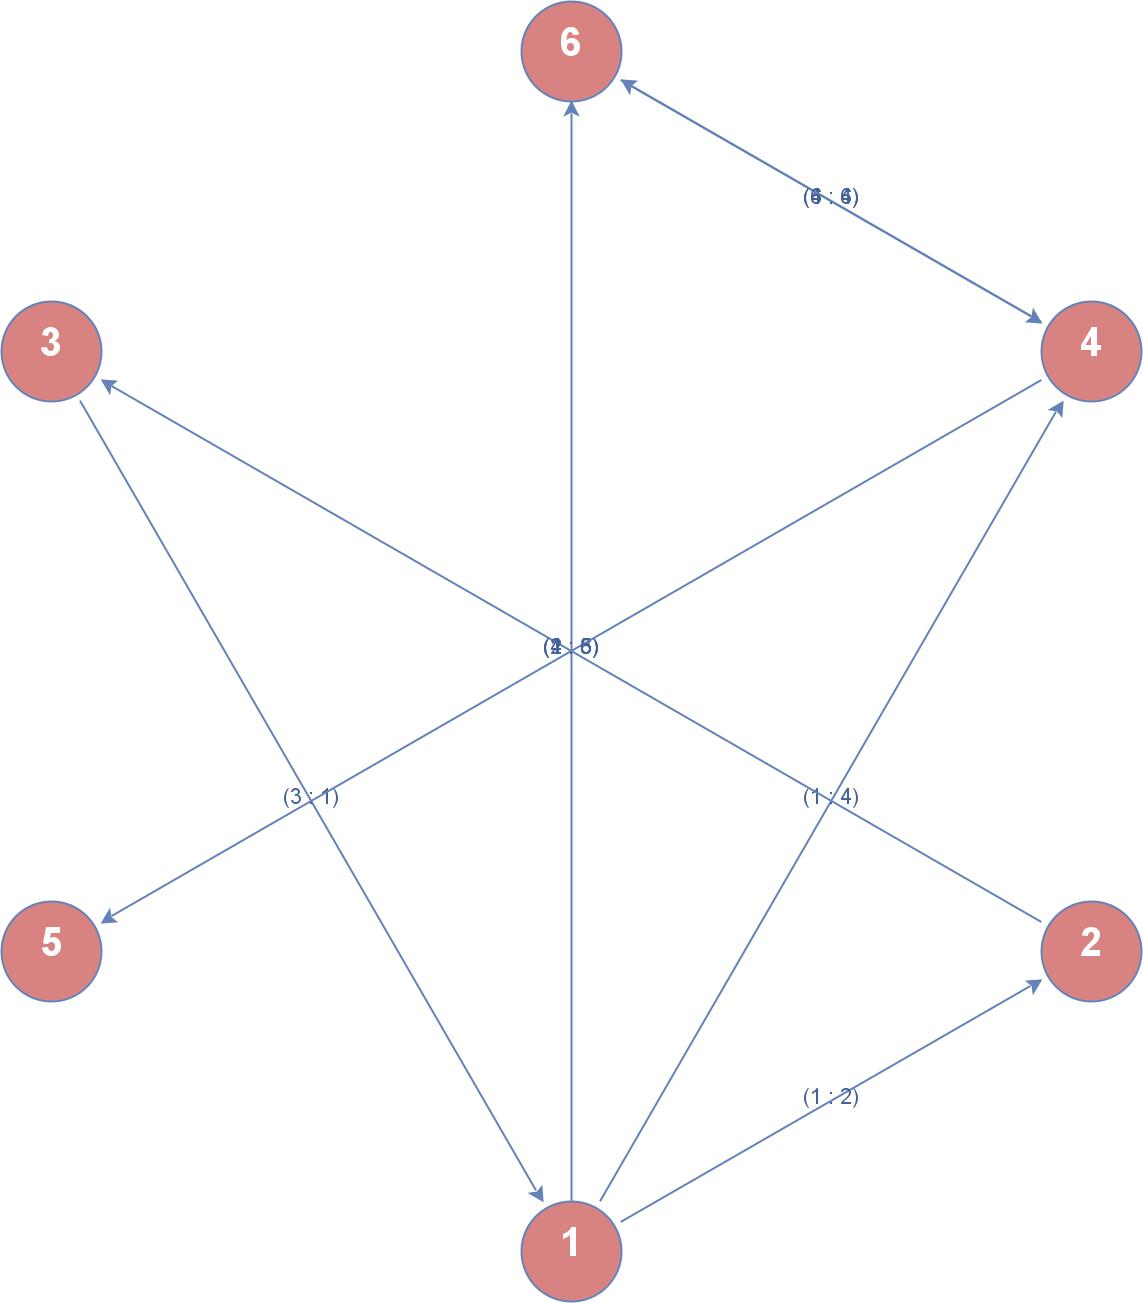
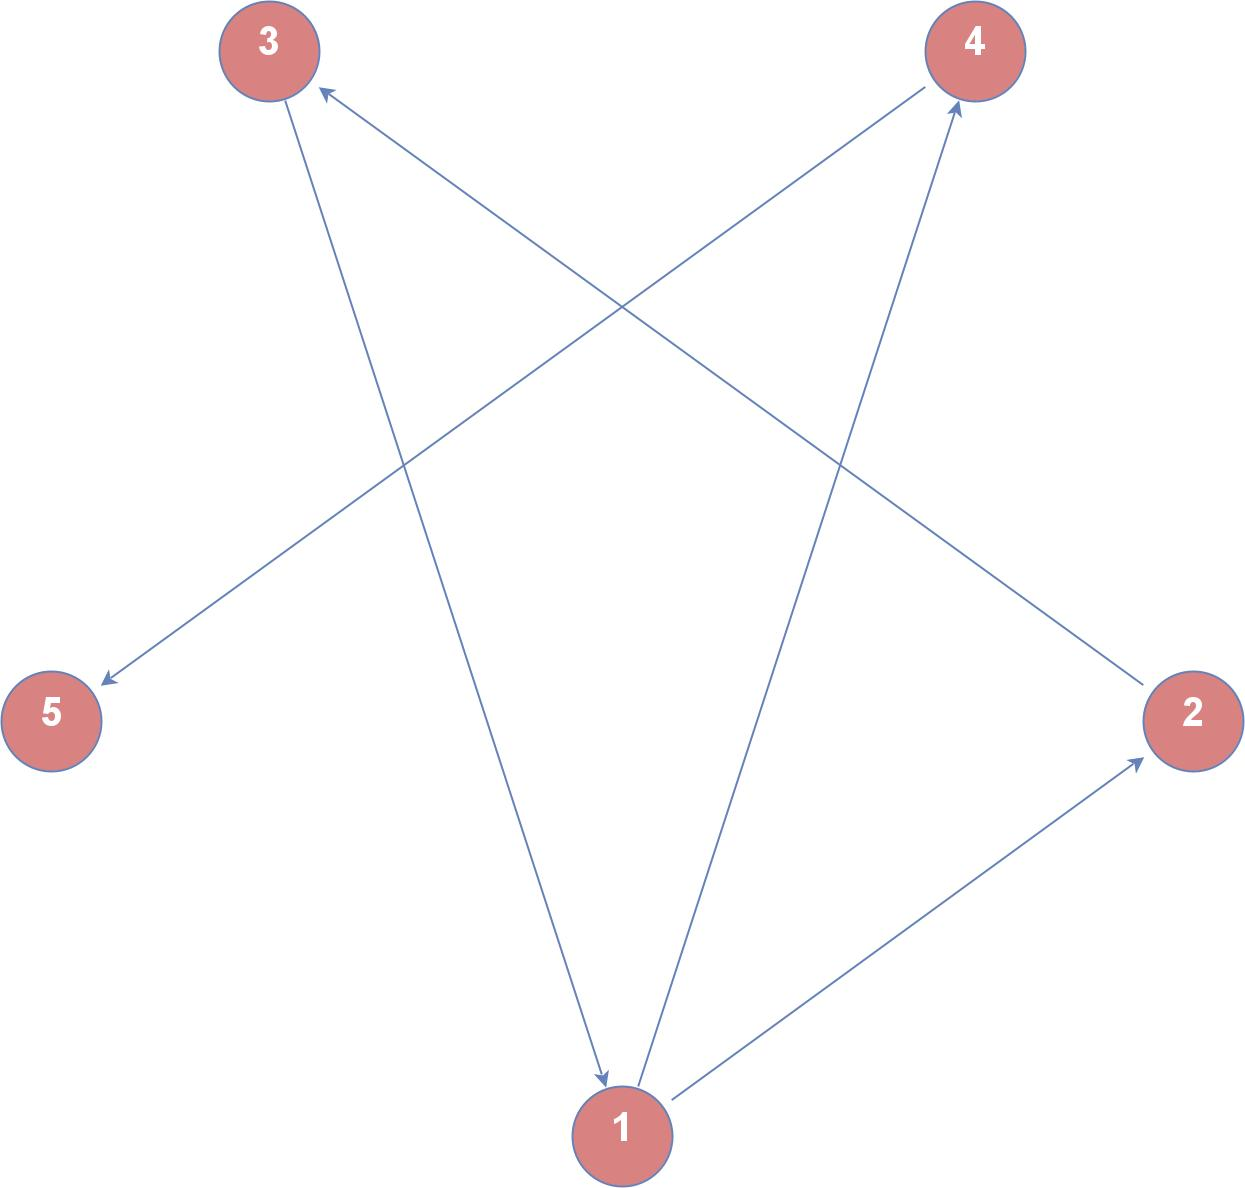
Update project

diff --git a/src/main/java/bobo4/flowgraph/MoPhong.java b/src/main/java/bobo4/flowgraph/MoPhong.java
@@ -20,7 +20,7 @@ import java.io.*;
 import java.util.*;
 import java.util.List;
 
-public class IllustratePath extends JApplet {
+public class MoPhong extends JApplet {
 	private static final Dimension DEFAULT_SIZE = new Dimension(1080, 720);
 
 	public JFrame frame = new JFrame("Path Demmo");
@@ -74,7 +74,7 @@ public class IllustratePath extends JApplet {
 		}
 	};
 
-	public IllustratePath () {
+	public MoPhong () {
 		// Create a visualization using JGraph, via an adapter
 		jgxAdapter = new JGraphXAdapter<>(graph);
 				
@@ -82,30 +82,6 @@ public class IllustratePath extends JApplet {
 		vertexToCellMap = jgxAdapter.getVertexToCellMap();
 
 	}
-
-	public void printOnePath() throws InterruptedException {
-		IllustratePath applet = new IllustratePath();
-		
-		frame.setTitle("Path Demo");
-		applet.init();
-		frame.getContentPane().add(applet);
-		frame.pack();
-		frame.setDefaultCloseOperation(JFrame.EXIT_ON_CLOSE);
-		frame.setVisible(true);
-		Thread.sleep(1000);
-		
-		int maxElement = path.getVertexList().size() + path.getEdgeList().size();
-		for (; index < maxElement; )
-		{
-			applet.repaint();
-			frame.pack();
-			Thread.sleep(500);
-		}
-		frame.setVisible(true);
-		
-		applet.destroy();
-	}
-
 	
 	@Override
 	public void init() {
@@ -177,8 +153,7 @@ public class IllustratePath extends JApplet {
 		
 	}
 	
-	@Override
-	public void repaint() {
+	public void repaint(String g) {
 		// TODO Auto-generated method stub
 		super.repaint();
 		setPreferredSize(DEFAULT_SIZE);

diff --git a/src/main/java/bobo4/flowgraph/FlowEdge.java b/src/main/java/bobo4/flowgraph/FlowEdge.java
@@ -14,8 +14,8 @@ public class FlowEdge extends DefaultEdge
 	@Override
 	public String toString() {
 		// TODO Auto-generated method stub
-		return super.toString();
-//		return "";
+//		return super.toString();
+		return "";
 	}
 	
 	@Override
